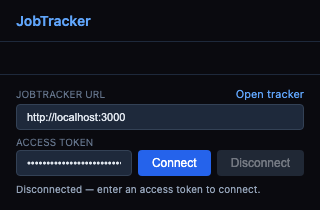
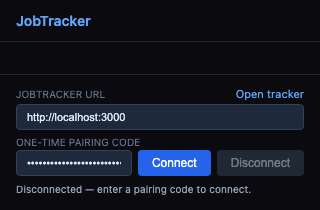
fix: preserve unresolved extension revocations

Changed region(s): [[0.0312, 0.6571, 0.4375, 0.7143], [0.4062, 0.8857, 0.8125, 0.9429]]

diff --git a/__tests__/components/extension-installation-settings.test.ts b/__tests__/components/extension-installation-settings.test.ts
@@ -1,9 +1,11 @@
 import { readFileSync } from "node:fs";
 import { join } from "node:path";
-import { createElement } from "react";
+import { createElement, useReducer } from "react";
+import * as React from "react";
 import { renderToStaticMarkup } from "react-dom/server";
 
 import {
+  ExtensionInstallations,
   PairingCodePanel,
   createExtensionPairingCode,
   pairingSecretReducer,
@@ -15,6 +17,17 @@ const source = readFileSync(
   "utf8",
 );
 const ORIGIN = "chrome-extension://abcdefghijklmnopabcdefghijklmnop";
+
+jest.mock("react", () => {
+  const actual = jest.requireActual<typeof import("react")>("react");
+  return {
+    ...actual,
+    useCallback: jest.fn((callback) => callback),
+    useEffect: jest.fn(),
+    useReducer: jest.fn(),
+    useState: jest.fn((initial) => [initial, jest.fn()]),
+  };
+});
 
 describe("ExtensionInstallations", () => {
   it("creates a one-time code for the selected configured origin", async () => {
@@ -74,9 +87,50 @@ describe("ExtensionInstallations", () => {
     expect(source).not.toMatch(/localStorage|sessionStorage/u);
   });
 
+  it("wires the rendered Settings dismiss control to remove the live secret", () => {
+    const dispatch = jest.fn();
+    const secret = {
+      code: "jt_pair_v1.selector.live-secret",
+      expiresAt: "2026-08-13T12:10:00.000Z",
+    };
+    (useReducer as jest.Mock).mockReturnValue([secret, dispatch]);
+
+    const rendered = ExtensionInstallations({
+      api: jest.fn(),
+      origins: [ORIGIN],
+    });
+    const html = renderToStaticMarkup(rendered);
+    expect(html).toContain(secret.code);
+
+    const panel = findElementByType(rendered, PairingCodePanel);
+    expect(panel).not.toBeNull();
+    panel?.props.onDismiss();
+    expect(dispatch).toHaveBeenCalledWith({ type: "dismissed" });
+  });
+
   it("renders opaque installation ids in the deep-linked management section", () => {
     expect(source).toContain('id="extension-installations"');
     expect(source).toContain("installation.id");
     expect(source).toContain("Installation ID");
   });
 });
+
+function findElementByType(
+  value: React.ReactNode,
+  type: React.ElementType,
+): React.ReactElement<{ onDismiss(): void }> | null {
+  if (!React.isValidElement(value)) return null;
+  const element = value as React.ReactElement<{
+    children?: React.ReactNode;
+    onDismiss?(): void;
+  }>;
+  if (element.type === type && element.props.onDismiss) {
+    return element as React.ReactElement<{ onDismiss(): void }>;
+  }
+  return React.Children.toArray(element.props.children).reduce<React.ReactElement<{
+    onDismiss(): void;
+  }> | null>(
+    (found, child) => found ?? findElementByType(child, type),
+    null,
+  );
+}

diff --git a/extension/popup.js b/extension/popup.js
@@ -1339,13 +1339,17 @@ async function initializePopup() {
         (!tombstoneOrigin || tombstoneOrigin === stored.serverUrl);
       if (tombstoneMatchesStored) {
         const origin = tombstoneOrigin || stored.serverUrl || "";
+        const unresolvedRevocation = stored.remoteRevocationUnconfirmed === true;
         const persistence = origin
           ? await persistInvalidatedRecord(origin, [
             ...normalizePendingCleanupOrigins(
               workingRecord?.pendingCleanupOrigins
             ),
             origin,
-          ])
+          ], unresolvedRevocation ? {
+            installationId: stored.installationId,
+            remoteRevocationUnconfirmed: true,
+          } : {})
           : { record: null, storageClean: await purgeKnownCredentials() };
         const permissionClean = origin
           ? await removePermission(permissionPattern(origin))
@@ -1363,10 +1367,14 @@ async function initializePopup() {
           await clearSessionTombstone();
         }
         setConnectionStatus(
-          persistence.storageClean && permissionClean
+          unresolvedRevocation
+            ? directRemoteRevocation(origin, stored.installationId)
+            : persistence.storageClean && permissionClean
             ? "Disconnected. Create a new pairing code to reconnect."
             : "Disconnected. Credential or host-access cleanup remains pending.",
-          persistence.storageClean && permissionClean ? "info" : "error"
+          unresolvedRevocation || !persistence.storageClean || !permissionClean
+            ? "error"
+            : "info"
         );
         return null;
       }

diff --git a/__tests__/extension/popup-lifecycle.test.ts b/__tests__/extension/popup-lifecycle.test.ts
@@ -358,6 +358,9 @@ describe("trusted extension storage", () => {
     harness.api.restoreConnection({ connection: harness.storageState.connection });
     harness.grantedOrigins.add(permissionFor("https://jobs.example.com"));
     harness.fetchMock.mockRejectedValueOnce(new Error("offline"));
+    harness.session.remove.mockRejectedValueOnce(
+      new Error("session tombstone unavailable")
+    );
 
     await harness.api.disconnectServer();
 
@@ -381,11 +384,26 @@ describe("trusted extension storage", () => {
       url: "https://jobs.example.com/settings#extension-installations",
     });
 
-    const reopened = loadLifecyclePopup({ storageState: harness.storageState });
+    const reopened = loadLifecyclePopup({
+      sessionState: harness.sessionState,
+      storageState: harness.storageState,
+    });
     await reopened.ready();
+    expect(reopened.storageState.connection).toEqual({
+      serverUrl: "https://jobs.example.com",
+      installationId: "018f9f72-f2e9-7c29-a6fc-001122334499",
+      invalidated: true,
+      remoteRevocationUnconfirmed: true,
+    });
     expect(reopened.getElement("connectionStatus").textContent).toContain(
       "018f9f72-f2e9-7c29-a6fc-001122334499",
     );
+    await eventHandler(reopened.getElement("openTracker"), "click")({
+      preventDefault: jest.fn(),
+    });
+    expect(reopened.chrome.tabs.create).toHaveBeenCalledWith({
+      url: "https://jobs.example.com/settings#extension-installations",
+    });
     expect(JSON.stringify(reopened.storageState)).not.toContain(TOKEN_B);
   });
 
